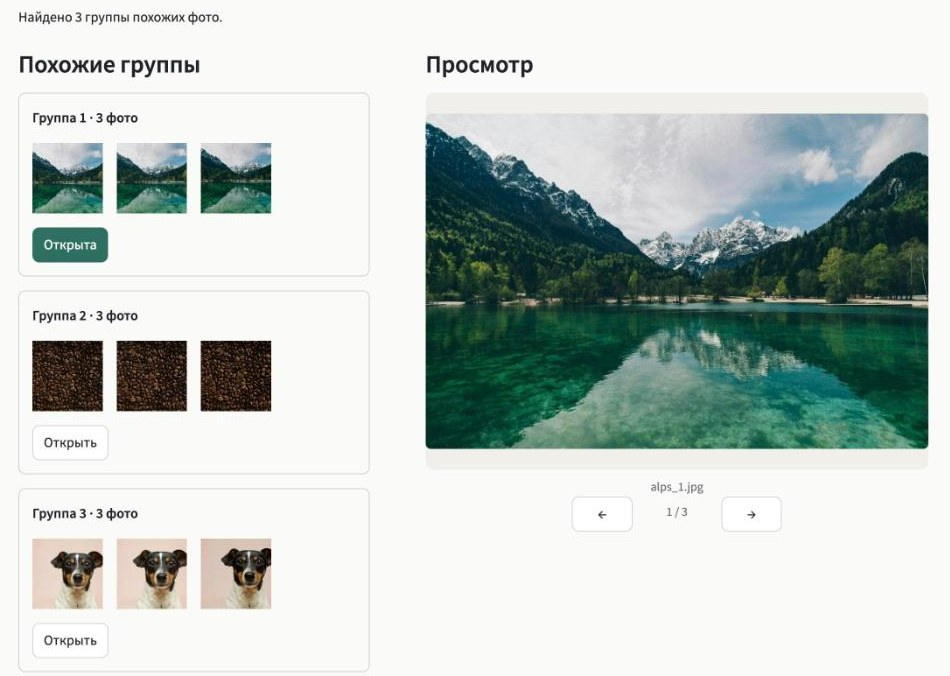
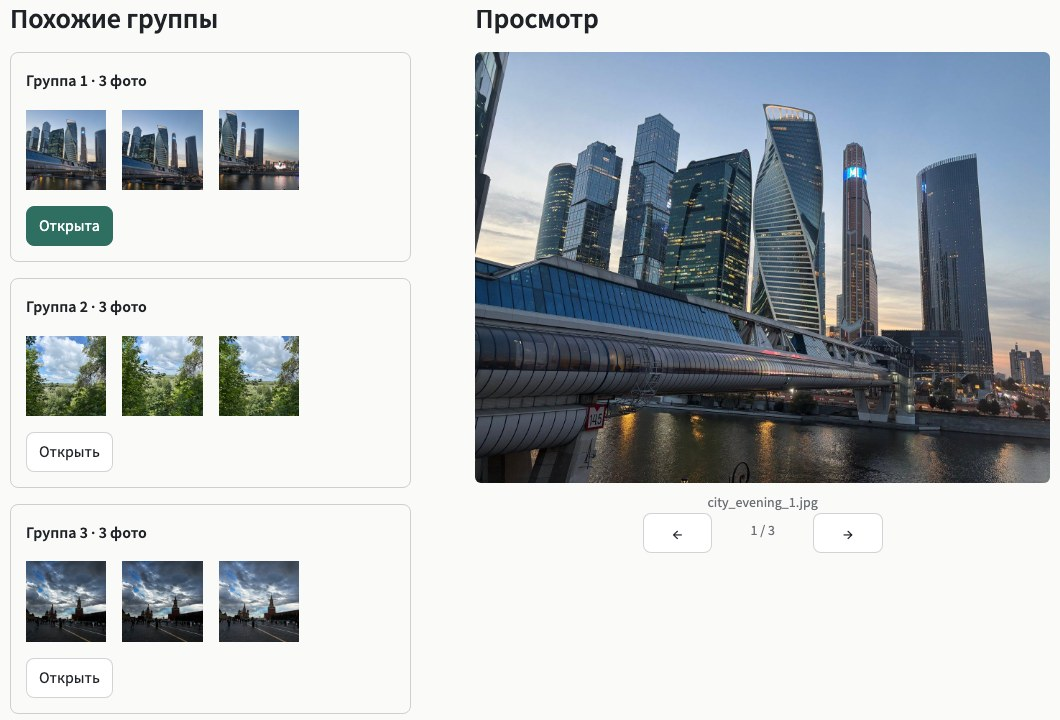
Polish demo copy and use original photo series

diff --git a/app.py b/app.py
@@ -34,56 +34,56 @@ def plural_ru(n, one, few, many):
 
 TEXTS = {
     "en": {
-        "page_title": "Smart Photo Cleaner",
-        "title": "Smart Photo Cleaner",
-        "tagline": "Finds near-identical shots so the extra copies are easy to spot.",
-        "intro": "Drop in photos from a walk or a trip. Similar frames are grouped together, "
-                 "so it's easy to see what can go.",
-        "privacy": "Files are processed in memory and deleted right after the analysis.",
+        "page_title": "Similar shots, side by side",
+        "title": "Similar shots, side by side",
+        "tagline": "A visual search demo for your photo series.",
+        "intro": "Upload a set of photos or open the sample set. The model groups visually similar "
+                 "shots so you can compare them and choose what to keep.",
+        "privacy": "Photos stay in this session; temporary files used for analysis are removed afterward.",
         "upload_label": "Photos (JPG or PNG, at least 2)",
         "sensitivity_label": "Sensitivity",
         "sensitivity_help": "Lower is stricter: only near-identical shots get grouped together.",
-        "min_files": "Add at least two photos to start.",
-        "try_samples": "Try with sample photos",
+        "min_files": "Add one more photo to start.",
+        "try_samples": "Explore sample photos",
         "samples_active": "Showing sample photos. Upload your own to analyze them instead.",
         "analyzing": "Analyzing {} photos…",
-        "no_duplicates": "No similar photos found — every shot is unique.",
+        "no_duplicates": "No groups at this sensitivity. Try moving the slider up.",
         "groups_title": "Similar shots",
         "viewer_title": "Preview",
         "group_header": "Group {} · {} photos",
         "open": "Open",
         "opened": "Viewing",
         "total_photos": "Total photos",
-        "keep": "Keep",
-        "can_remove": "Can remove",
+        "group_count": "Similar groups",
+        "grouped_photos": "Photos in groups",
         "switch_lang": "RU",
-        "footer": "Demo · ResNet50 embeddings + DBSCAN · [Source code]({})",
+        "footer": "Built with ResNet50 embeddings + DBSCAN · [View the code on GitHub]({})",
     },
     "ru": {
-        "page_title": "Умная чистка фото",
-        "title": "Умная чистка фото",
-        "tagline": "Находит почти одинаковые кадры, чтобы было видно, что лишнее.",
-        "intro": "Загрузите снимки с прогулки или из отпуска. Похожие кадры соберутся в группы — "
-                 "сразу видно, что можно удалить.",
-        "privacy": "Файлы обрабатываются в памяти и удаляются сразу после анализа.",
+        "page_title": "Похожие кадры — рядом",
+        "title": "Похожие кадры — рядом",
+        "tagline": "Демо поиска похожих фотографий.",
+        "intro": "Загрузите серию снимков или откройте примеры. Модель соберёт похожие кадры "
+                 "в группы, а вы сравните их и решите, что оставить.",
+        "privacy": "Фото остаются в текущей сессии; временные файлы для анализа удаляются после обработки.",
         "upload_label": "Фотографии (JPG или PNG, минимум 2)",
         "sensitivity_label": "Чувствительность",
         "sensitivity_help": "Чем меньше, тем строже: в группу попадут только почти одинаковые кадры.",
-        "min_files": "Добавьте хотя бы две фотографии, чтобы начать.",
-        "try_samples": "Попробовать на примерах",
+        "min_files": "Добавьте ещё одно фото, чтобы начать.",
+        "try_samples": "Посмотреть на примерах",
         "samples_active": "Показаны примеры. Загрузите свои фото, чтобы проверить их.",
         "analyzing": "Анализируем фото: {}…",
-        "no_duplicates": "Похожих фото не нашлось — все кадры разные.",
+        "no_duplicates": "При этой чувствительности группы не нашлись. Попробуйте сдвинуть ползунок вправо.",
         "groups_title": "Похожие группы",
         "viewer_title": "Просмотр",
         "group_header": "Группа {} · {} фото",
         "open": "Открыть",
         "opened": "Открыта",
         "total_photos": "Всего фото",
-        "keep": "Оставить",
-        "can_remove": "Можно удалить",
+        "group_count": "Похожих групп",
+        "grouped_photos": "Фото в группах",
         "switch_lang": "EN",
-        "footer": "Демо · эмбеддинги ResNet50 + DBSCAN · [Исходный код]({})",
+        "footer": "Основа: эмбеддинги ResNet50 + DBSCAN · [Код на GitHub]({})",
     },
 }
 
@@ -132,6 +132,8 @@ st.markdown(
     [data-stale="true"] { opacity: 1 !important; transition: none !important; }
     .viewer-caption { text-align: center; margin: 8px 0 0; }
     .counter { text-align: center; padding-top: 6px; }
+    [data-testid="stImageContainer"] { width: 100% !important; max-width: 100% !important; }
+    [data-testid="stImageContainer"] img { display: block; width: 100% !important; height: auto !important; }
     </style>
     """,
     unsafe_allow_html=True,
@@ -232,9 +234,9 @@ with slider_col:
         help=t["sensitivity_help"],
     )
 
-if len(photos) < 2:
+if len(photos) == 1:
     st.caption(t["min_files"])
-else:
+elif len(photos) >= 2:
     file_info = tuple(sorted((name, size) for name, size, _ in photos))
     cache_key = (file_info, eps)
 
@@ -260,13 +262,12 @@ else:
     all_images = st.session_state.all_images
 
     duplicate_groups = {k: v for k, v in clusters.items() if len(v) > 1}
-    total_remove = sum(len(files) - 1 for files in duplicate_groups.values())
+    grouped_photos = sum(len(files) for files in duplicate_groups.values())
 
-    st.divider()
     a, b, c = st.columns(3)
     a.metric(t["total_photos"], len(photos))
-    b.metric(t["keep"], len(photos) - total_remove)
-    c.metric(t["can_remove"], total_remove)
+    b.metric(t["group_count"], len(duplicate_groups))
+    c.metric(t["grouped_photos"], grouped_photos)
 
     if not duplicate_groups:
         st.info(t["no_duplicates"])

diff --git a/sample_photos/CREDITS.md b/sample_photos/CREDITS.md
@@ -1,13 +1,7 @@
-# Sample photos
+# Примеры фото
 
-Photos from [Unsplash](https://unsplash.com), used under the [Unsplash License](https://unsplash.com/license).
-`*_2` and `*_3` are slightly cropped and re-exposed copies, imitating a burst of shots.
+Четыре серии из личной коллекции Katherine Mironova: городские виды, цветы у набережной и парк.
+Каждая серия содержит три разных кадра одного сюжета, снятых подряд.
 
-| File | Author | Source |
-|------|--------|--------|
-| alps_* | Adam Vradenburg | https://unsplash.com/photos/GA09PKfRIQY |
-| dog_* | Victor G | https://unsplash.com/photos/N04FIfHhv_k |
-| coffee_* | Mike Kenneally | https://unsplash.com/photos/TD4DBagg2wE |
-| beach | Sean Oulashin | https://unsplash.com/photos/KMn4VEeEPR8 |
-| tulips | Esther Gorlee | https://unsplash.com/photos/-uGmFjqkHFU |
-| city | Andrea Cau | https://unsplash.com/photos/nV7GJmSq3zc |
+Для публичного демо копии уменьшены до 1600 пикселей по длинной стороне и сохранены без EXIF,
+включая геометки. Права на фотографии принадлежат автору.

diff --git a/README.md b/README.md
@@ -1,7 +1,7 @@
-# Умная чистка фото
+# Похожие кадры — рядом
 
-Находит почти одинаковые кадры среди загруженных фотографий и собирает их в группы, чтобы
-было видно, что можно удалить, а что оставить.
+Демо группирует визуально похожие фотографии и показывает их рядом. Можно загрузить свои снимки
+или открыть готовый набор; что оставить, решает человек.
 
 **Демо:** https://ai-photo-dedup-demo.streamlit.app/
 
@@ -45,5 +45,6 @@ Python, Streamlit, PyTorch / torchvision (ResNet50), scikit-learn (DBSCAN), Pill
 
 ## Примеры фото
 
-Снимки в `sample_photos/` — с [Unsplash](https://unsplash.com), авторы перечислены
-в [`sample_photos/CREDITS.md`](sample_photos/CREDITS.md).
+Снимки в `sample_photos/` — из личной коллекции Katherine Mironova. Для демо они
+уменьшены и сохранены без геометок; подробности — в
+[`sample_photos/CREDITS.md`](sample_photos/CREDITS.md).
